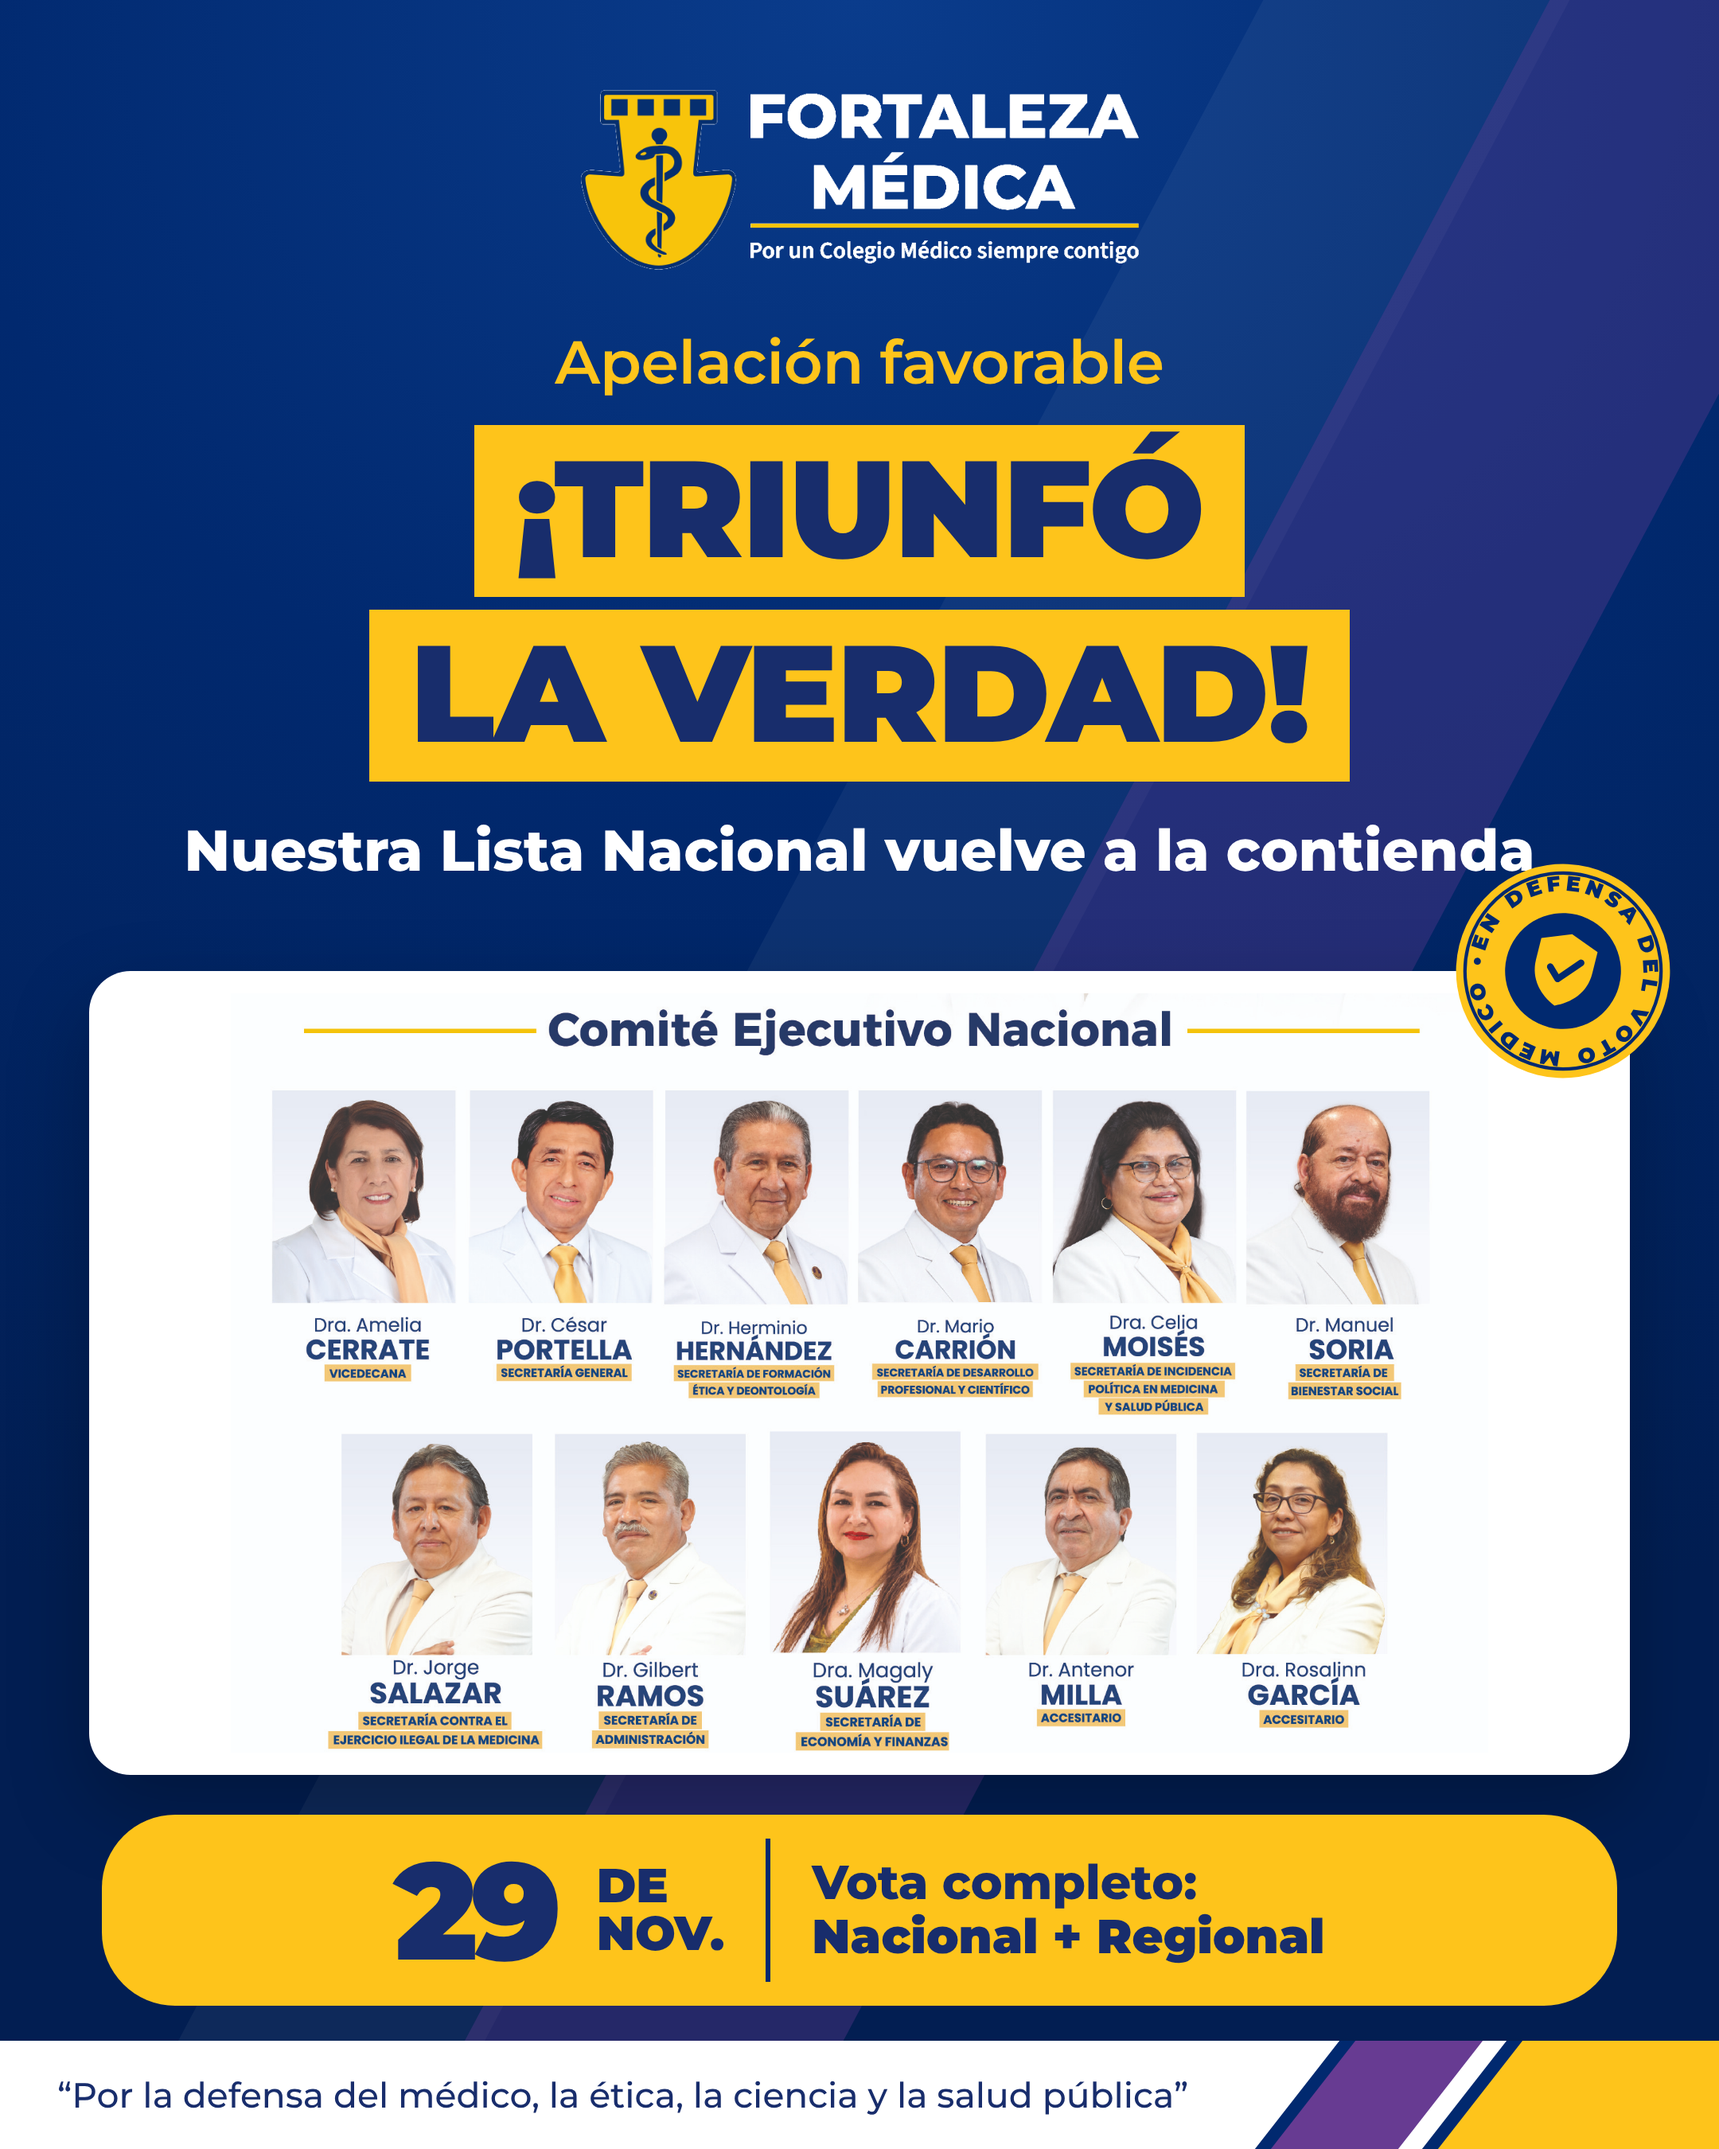
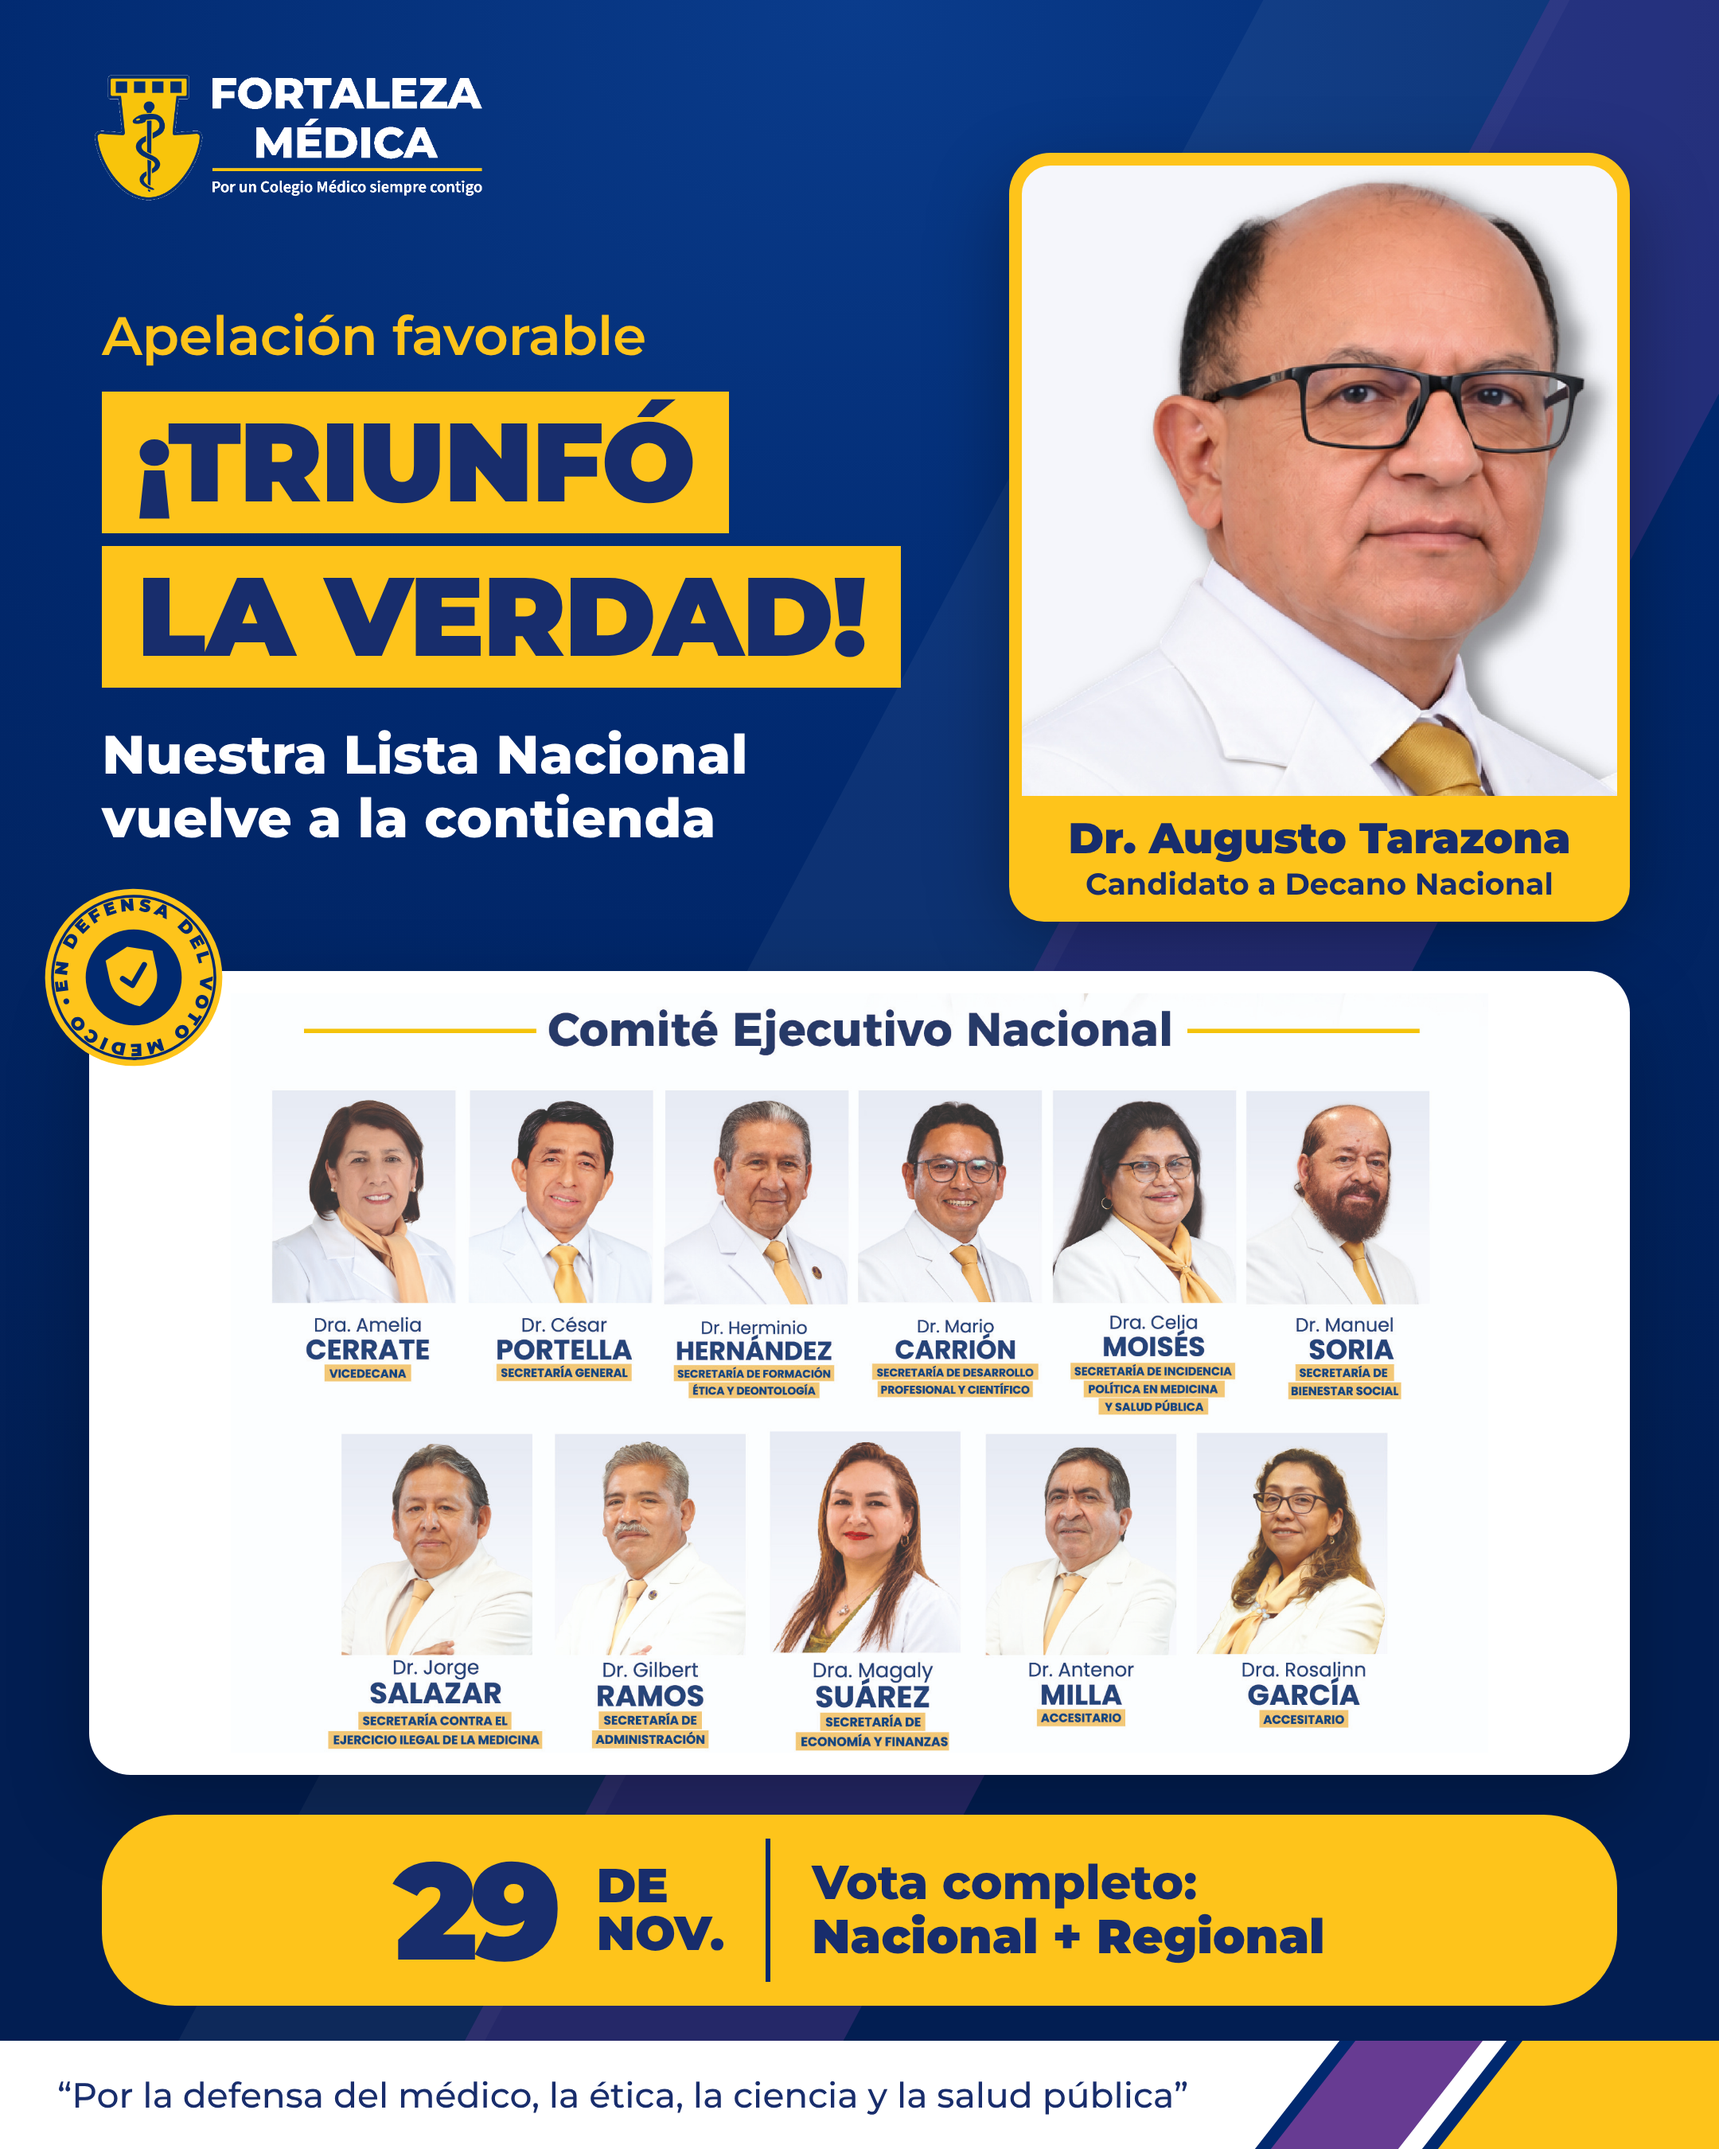
D-09A: Dr. Tarazona como líder de lista junto al titular
Claude-Session: https://claude.ai/code/session_01YW8ZhZsGkYYFyPZK7eZsbt

Changed region(s): [[0.0, 0.0311, 0.9926, 0.5289], [0.062, 0.0311, 0.2792, 0.0933]]

diff --git a/propuesta_contingencia/fuente_html/piezas/09_D09A_victoria_lista_nacional.html b/propuesta_contingencia/fuente_html/piezas/09_D09A_victoria_lista_nacional.html
@@ -3,14 +3,19 @@
 <link rel="stylesheet" href="../assets/styles.css">
 </head><body><div class="canvas dark">
 
-<img class="logo center" src="../assets/logo_white.png">
-<div class="kicker" style="margin-top:30px;color:var(--yellow)">Apelación favorable</div>
-<div style="margin-top:16px"><div class="hl  "><span>¡Triunfó</span><span>la verdad!</span></div></div>
-<div class="center" style="margin:22px 80px 0;font-weight:800;font-size:36px;line-height:1.18">
-  Nuestra Lista Nacional vuelve a la contienda
+<img class="logo corner" src="../assets/logo_white.png">
+<div class="abs" style="right:56px;top:96px;width:390px;height:470px;border-radius:26px;border:8px solid var(--yellow);background:#F5F6FB url(../assets/tarazona.jpg) 28% 0/cover;box-shadow:0 20px 50px rgba(0,0,0,.35)"></div>
+<div class="abs" style="right:56px;top:500px;width:390px;padding:12px 18px;background:var(--yellow);color:var(--navy-ink);border-radius:0 0 22px 22px;text-align:center">
+  <div style="font-weight:900;font-size:27px;line-height:1.1">Dr. Augusto Tarazona</div>
+  <div style="font-weight:700;font-size:19px;margin-top:2px">Candidato a Decano Nacional</div>
+</div>
+<div class="abs" style="left:64px;top:190px;width:560px">
+  <div class="kicker" style="text-align:left;color:var(--yellow);font-size:34px">Apelación favorable</div>
+  <div style="margin-top:14px"><div class="hl md left"><span>¡Triunfó</span><span>la verdad!</span></div></div>
+  <div style="margin-top:22px;font-weight:800;font-size:34px;line-height:1.18">Nuestra Lista Nacional<br>vuelve a la contienda</div>
 </div>
 <div class="abs" style="left:56px;right:56px;top:610px;height:505px;background:#fff;border-radius:26px;padding:14px;box-shadow:0 20px 50px rgba(0,0,0,.25)"><div style="width:100%;height:100%;border-radius:14px;background:url(../assets/comite_nacional.jpg) center/contain no-repeat"></div></div>
-<svg class="abs" style="right:28px;top:540px;transform:rotate(14deg)" viewBox="0 0 200 200" width="140" height="140">
+<svg class="abs" style="left:26px;top:556px;transform:rotate(-12deg)" viewBox="0 0 200 200" width="116" height="116">
   <defs><path id="c2" d="M100,100 m-72,0 a72,72 0 1,1 144,0 a72,72 0 1,1 -144,0"/></defs>
   <circle cx="100" cy="100" r="96" fill="#FEC41B"/>
   <circle cx="100" cy="100" r="88" fill="none" stroke="#01296F" stroke-width="3"/>

diff --git a/propuesta_contingencia/fuente_html/generar.py b/propuesta_contingencia/fuente_html/generar.py
@@ -409,14 +409,19 @@ pieces["08_D08_ejes_lima_resumen"] = page(f"""
 
 # ---------------------------------------------------------------- D-09A
 pieces["09_D09A_victoria_lista_nacional"] = page(f"""
-{logo("center", dark=True)}
-<div class="kicker" style="margin-top:30px;color:var(--yellow)">Apelación favorable</div>
-<div style="margin-top:16px">{hl(["¡Triunfó", "la verdad!"], "")}</div>
-<div class="center" style="margin:22px 80px 0;font-weight:800;font-size:36px;line-height:1.18">
-  Nuestra Lista Nacional vuelve a la contienda
+{logo("corner", dark=True)}
+<div class="abs" style="right:56px;top:96px;width:390px;height:470px;border-radius:26px;border:8px solid var(--yellow);background:#F5F6FB url({TARAZONA}) 28% 0/cover;box-shadow:0 20px 50px rgba(0,0,0,.35)"></div>
+<div class="abs" style="right:56px;top:500px;width:390px;padding:12px 18px;background:var(--yellow);color:var(--navy-ink);border-radius:0 0 22px 22px;text-align:center">
+  <div style="font-weight:900;font-size:27px;line-height:1.1">Dr. Augusto Tarazona</div>
+  <div style="font-weight:700;font-size:19px;margin-top:2px">Candidato a Decano Nacional</div>
+</div>
+<div class="abs" style="left:64px;top:190px;width:560px">
+  <div class="kicker" style="text-align:left;color:var(--yellow);font-size:34px">Apelación favorable</div>
+  <div style="margin-top:14px">{hl(["¡Triunfó", "la verdad!"], "md", "left")}</div>
+  <div style="margin-top:22px;font-weight:800;font-size:34px;line-height:1.18">Nuestra Lista Nacional<br>vuelve a la contienda</div>
 </div>
 <div class="abs" style="left:56px;right:56px;top:610px;height:505px;background:#fff;border-radius:26px;padding:14px;box-shadow:0 20px 50px rgba(0,0,0,.25)"><div style="width:100%;height:100%;border-radius:14px;background:url(../assets/comite_nacional.jpg) center/contain no-repeat"></div></div>
-{seal("right:28px;top:540px;transform:rotate(14deg)", 140, 2)}
+{seal("left:26px;top:556px;transform:rotate(-12deg)", 116, 2)}
 <div class="abs" style="left:64px;right:64px;bottom:90px;height:120px;background:var(--yellow);color:var(--navy-ink);border-radius:46px;display:flex;align-items:center;justify-content:center;gap:26px">
   <div style="font-weight:900;font-size:86px;letter-spacing:-4px">29</div>
   <div style="font-weight:900;font-size:30px;line-height:1">DE<br>NOV.</div>
